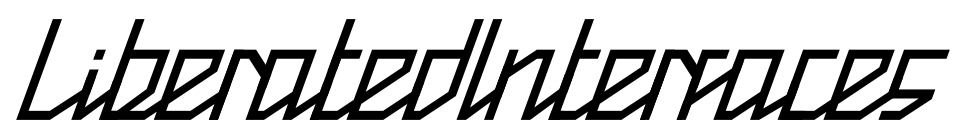
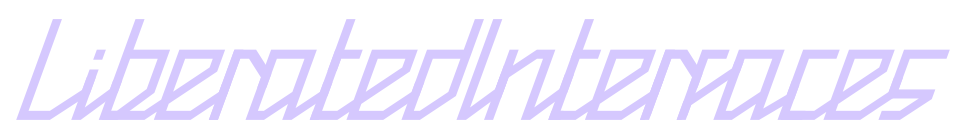
build

Changed region(s): [[0.0, 0.1151, 0.9938, 0.8633]]

diff --git a/src/mxz/MXF/Menu.svelte b/src/mxz/MXF/Menu.svelte
@@ -44,7 +44,7 @@
 	<div 
 
 		style="background: var(--blue5-0)"
-		class="flex row fixed t0 l0 w100pc bb z-index99">
+		class="flex row-center-stretch fixed t0 l0 w100pc bb z-index99">
 		<FileSave />
 		<input 
 			type="number" 
@@ -82,5 +82,14 @@
 				</div>
 			{/each}
 		{/each}
+		<a 
+			href="https://liberatedinterfaces.tv"
+			class="bt"
+			style="padding:0;line-height:0em;">
+			<img 
+				style="background:none;height:2.2em;"
+				class="pt0-4 pb0-3 plr0-5 h2em"
+				src="/liberatedinterfaces.png" />
+		</a>
 	</div>
 </aside>

diff --git a/src/mxz/web-renderer/WebRenderer.svelte b/src/mxz/web-renderer/WebRenderer.svelte
@@ -155,7 +155,6 @@
 			recorder.stop()
 			recorder.dispose()
 		}
-		console.log(recorder)
 		window.recorder = recorder
 	}
 
@@ -304,7 +303,6 @@ function getTransformations( store ) {
 			return `${name}${char}( ${num||0}${ref?.[name]?.unit || ''} )`
 		}).join(' ')} `
 	}
-	console.log(transform, '???')
 	return transform
 }
 

diff --git a/README.md b/README.md
@@ -1,8 +1,22 @@
 # V1 Synth
 
-
 Things not to forget:
 
 * Web-renderer (reference)
 * Colour scheme and design
-* LIB.MATRIX.js
+* LIB.MATRIX.js / transformations
+
+Dev:
+
+```
+npm i
+npm run dev
+```
+
+Prod:
+
+```
+cd build.synth.v1
+chmod -x serve.sh
+./serve.sh
+```
